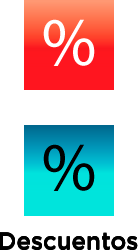
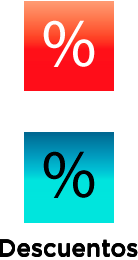
todo up

diff --git a/www/js/com/secciones/SeccionHome.js b/www/js/com/secciones/SeccionHome.js
@@ -9,15 +9,15 @@ function SeccionHome()
 	promo.id = 'SeccionHome_promo';
 	$(this.main).append(promo);
 
-	var btn_mapa = new Boton2Frames('img/home/btn_mapa.png', 45, 128, doVerMapa);
+	var btn_mapa = new Boton2Frames('img/home/btn_mapa.png', 45, 130, doVerMapa);
 	btn_mapa.main.id = 'SeccionHome_btn_mapa';
 	$(this.main).append(btn_mapa.main);
 
-	var btn_descuentos = new Boton2Frames('img/home/btn_descuentos.png', 69, 125, doVerDescuentos)
+	var btn_descuentos = new Boton2Frames('img/home/btn_descuentos.png', 69, 130, doVerDescuentos)
 	btn_descuentos.main.id = 'SeccionHome_btn_descuentos'
 	$(this.main).append(btn_descuentos.main)
 
-	var btn_eventos = new Boton2Frames('img/home/btn_eventos.png', 47, 126, doVerEventos)
+	var btn_eventos = new Boton2Frames('img/home/btn_eventos.png', 47, 130, doVerEventos)
 	btn_eventos.main.id = 'SeccionHome_btn_eventos'
 	$(this.main).append(btn_eventos.main)
 

diff --git a/www/js/com/secciones/eventosofertas/UnEvento.js b/www/js/com/secciones/eventosofertas/UnEvento.js
@@ -314,11 +314,11 @@ function UnEvento()
                         if($json.length == 0) $('#UnEvento_holder_usuarios_fb').html('<div id="UnEvento_mensaje_participantes">Aun no hay participantes en este evento.</div>')
 
                         $('#UnEvento_holder_usuarios_fb').append('<br style="clear:both" />');
-                       	is.refresh()
+                       	//is.refresh()
                 },
                 error: function(){ 
                         $('#UnEvento_holder_usuarios_fb').html('<div id="UnEvento_mensaje_participantes">Ocurrio un error al obtener los participantes</div>');
-                        is.refresh()
+                       // is.refresh()
                 }
         });        
 	}

diff --git a/www/css/home.css b/www/css/home.css
@@ -13,7 +13,7 @@
 }
 
 #SeccionHome_btn_mapa{
-	bottom: 18px;
+	bottom: 20px;
 	left: 50%;
 	margin-left: -107px;
 }
@@ -25,7 +25,7 @@
 }
 
 #SeccionHome_btn_eventos{
-	bottom: 19px;
+	bottom: 20px;
 	left: 50%;
 	margin-left: 60px;
 }
